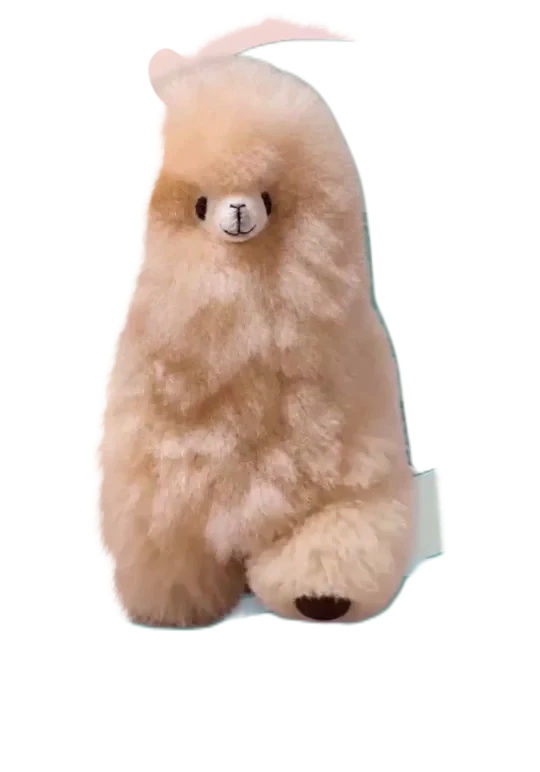
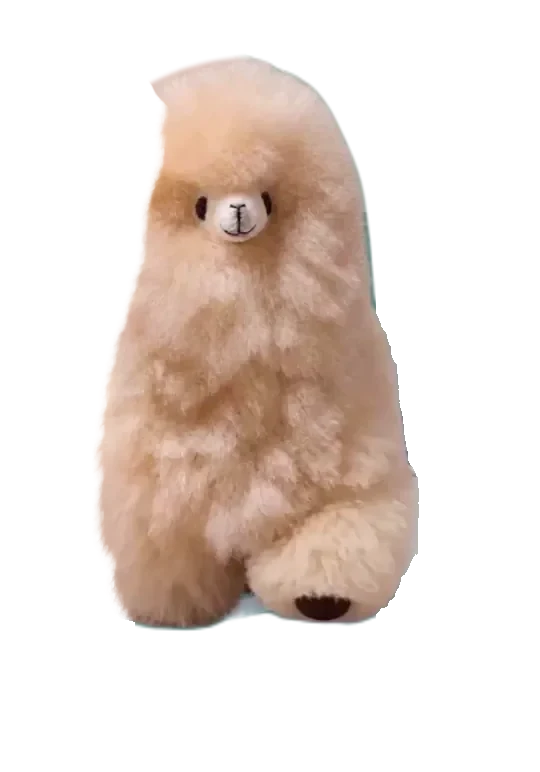
Clean residual background from llama motion

Changed region(s): [[0.2667, 0.0, 0.6519, 0.1244], [0.6815, 0.4974, 0.8296, 0.8083], [0.6815, 0.4041, 0.7407, 0.4974]]

diff --git a/public/sw.js b/public/sw.js
@@ -1,4 +1,4 @@
-const CACHE = 'happy-llama-reminder-v11';
+const CACHE = 'happy-llama-reminder-v12';
 const CORE = [
   '/',
   '/assets/brand/happy-llama-logo.png',
